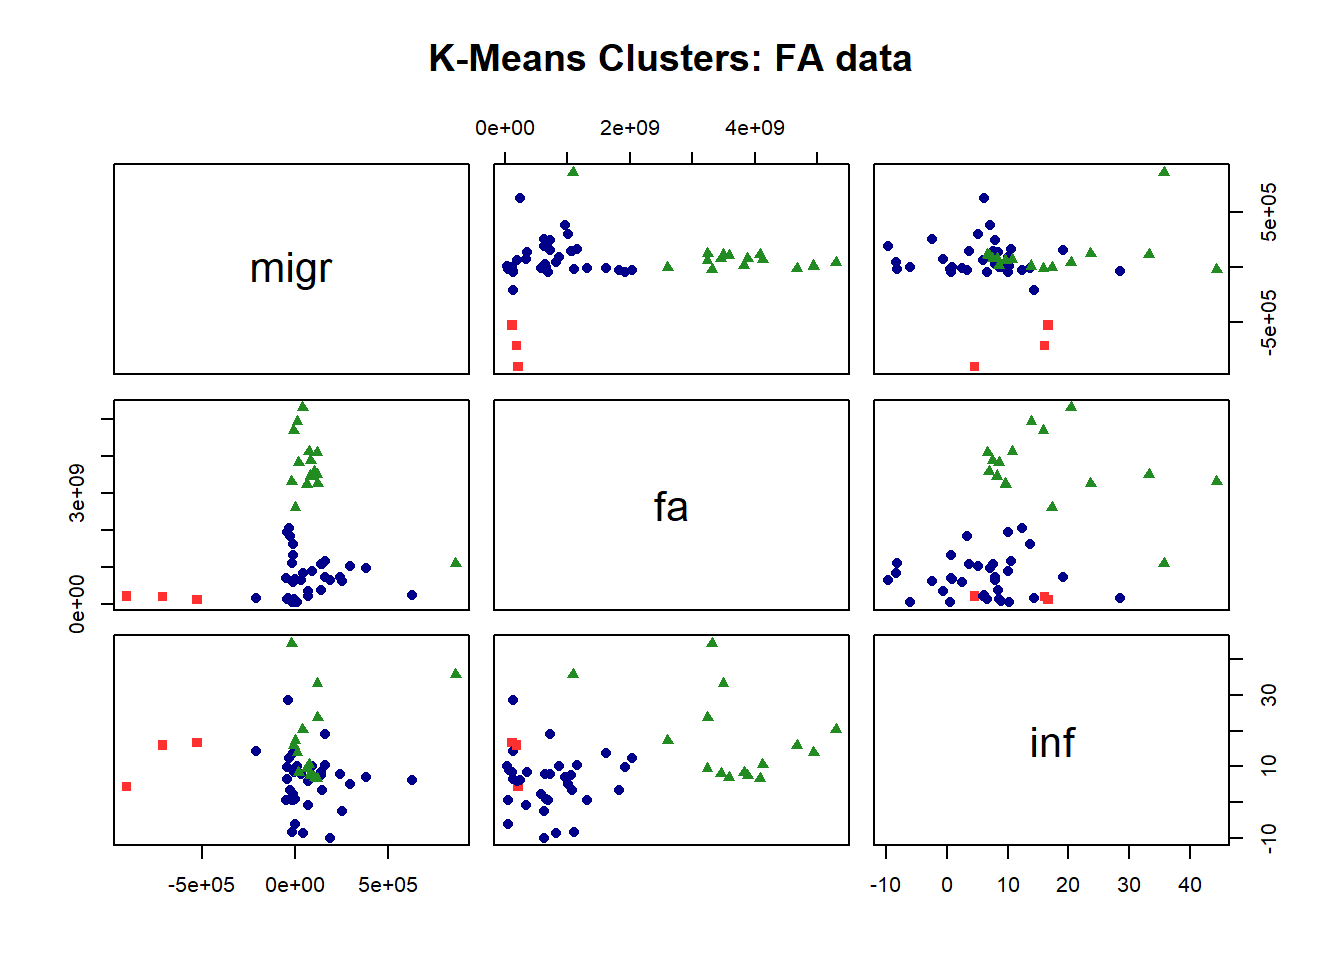
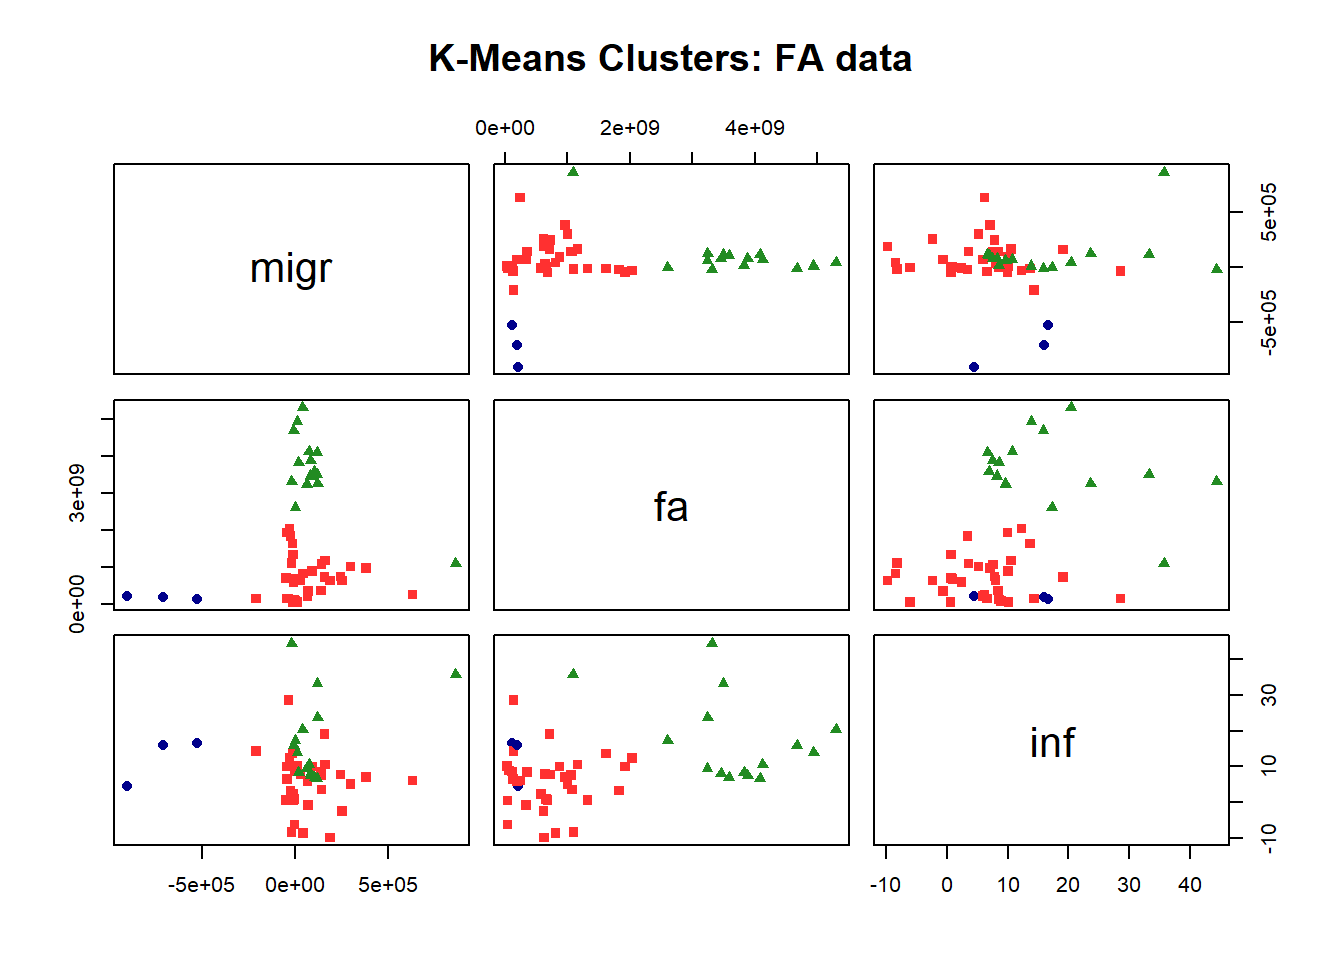
made changes to yaml

diff --git a/docs/assignments/a4/a4.html b/docs/assignments/a4/a4.html
@@ -147,8 +147,10 @@ ul.task-list li input[type="checkbox"] {
   </div>
 </li>
           <li class="sidebar-item">
-  Assignment 4
-  </li>
+  <div class="sidebar-item-container"> 
+  <a href="../../assignments/a4/a4.html" class="sidebar-item-text sidebar-link active">Assignment 4</a>
+  </div>
+</li>
           <li class="sidebar-item">
   <div class="sidebar-item-container"> 
   <a href="../../assignments/proposal/prop-2-22-23.html" class="sidebar-item-text sidebar-link">Project Proposal</a>
@@ -231,8 +233,8 @@ ul.task-list li input[type="checkbox"] {
 </div>
 </div>
 </section>
-<section id="various-plots" class="level2">
-<h2 class="anchored" data-anchor-id="various-plots">Various plots</h2>
+<section id="animated-clusterplot" class="level2">
+<h2 class="anchored" data-anchor-id="animated-clusterplot">Animated clusterplot</h2>
 <p><img src="https://media.giphy.com/media/v1.Y2lkPTc5MGI3NjExMGMwZjdlMDQzMTdjMWViMzVjZTA0ZTY2MTkxZWM4NzE2MGQ3N2YwNCZjdD1n/lhXBuebTF2qazw8Ima/giphy.gif" class="img-fluid"></p>
 <div class="cell">
 
@@ -250,20 +252,20 @@ ul.task-list li input[type="checkbox"] {
 <h2 class="anchored" data-anchor-id="clustering-plots-figuring-out-optimum-cluster-number">Clustering plots &amp; figuring out optimum cluster number</h2>
 <div class="cell">
 <div class="cell-output cell-output-stdout">
-<pre><code>K-means clustering with 3 clusters of sizes 3, 33, 15
+<pre><code>K-means clustering with 3 clusters of sizes 33, 3, 15
 
 Cluster means:
    mig_scale   fa_scale  inf_scale
-1 -2.9308285 -0.8960418  0.2749959
-2  0.1423792 -0.5373472 -0.3690791
+1  0.1423792 -0.5373472 -0.3690791
+2 -2.9308285 -0.8960418  0.2749959
 3  0.2729314  1.3613721  0.7569748
 
 Clustering vector:
- [1] 2 2 2 2 2 2 2 1 2 1 1 2 2 2 2 2 2 2 2 2 2 3 2 2 2 2 2 2 2 2 2 2 2 2 2 2 2 3
+ [1] 1 1 1 1 1 1 1 2 1 2 2 1 1 1 1 1 1 1 1 1 1 3 1 1 1 1 1 1 1 1 1 1 1 1 1 1 1 3
 [39] 3 3 3 3 3 3 3 3 3 3 3 3 3
 
 Within cluster sum of squares by cluster:
-[1]  1.920832 34.173419 33.295700
+[1] 34.173419  1.920832 33.295700
  (between_SS / total_SS =  53.7 %)
 
 Available components:
@@ -284,7 +286,7 @@ Available components:
 <div class="cell-output cell-output-stdout">
 <pre><code>
  1  2  3 
- 3 33 15 </code></pre>
+33  3 15 </code></pre>
 </div>
 <div class="cell-output-display">
 <p><img src="a4_files/figure-html/unnamed-chunk-6-2.png" class="img-fluid" width="672"></p>
